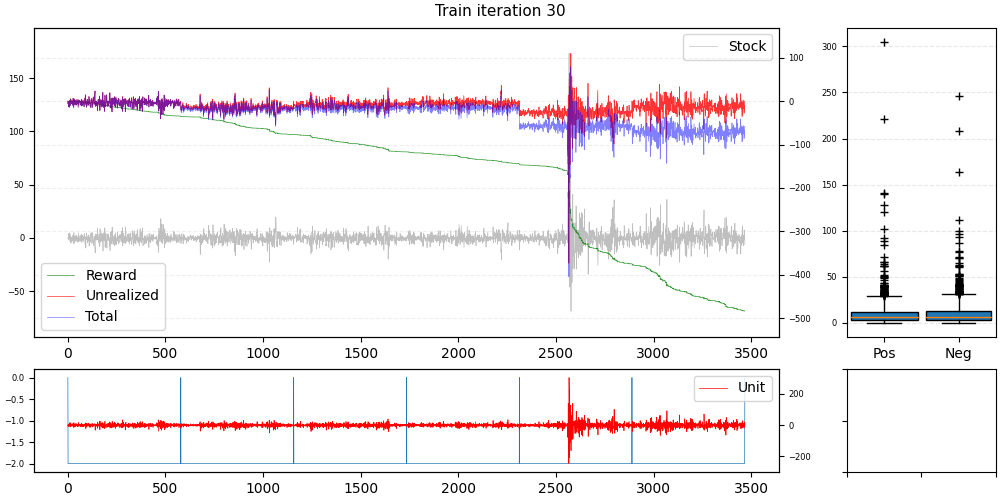
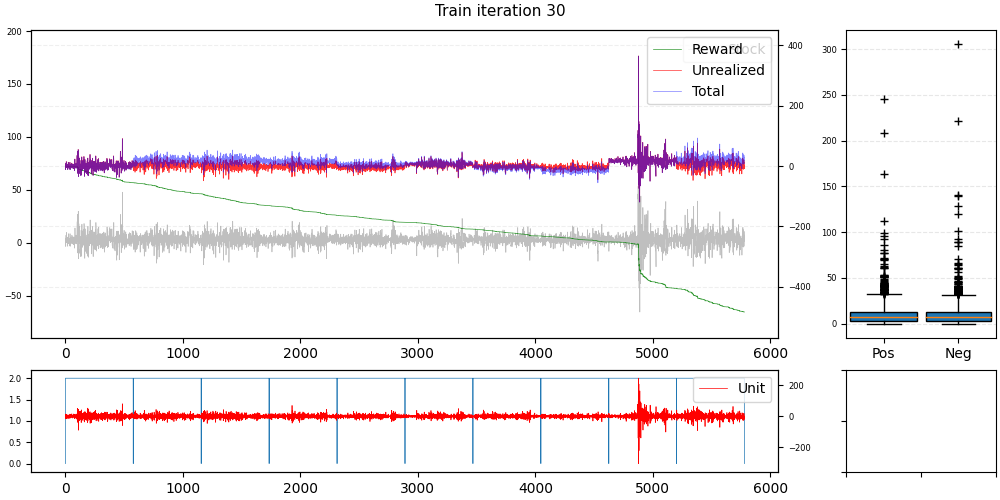
--dre

diff --git a/sim/env_dy/day_evn.py b/sim/env_dy/day_evn.py
@@ -230,13 +230,13 @@ class Days(gym.Env):
 
     def cal_reward(self, pre_stat, new_stat, step_profit, pre_price):
 
-        returns = self.cal_emph_reward(step_profit)
-        risk = self.remain_risk(new_stat)
-        reward = returns #- 0.5 * risk #2틱 risk = 3$ 1틱 1.25
+        # returns = self.cal_emph_reward(step_profit)
+        # risk = self.remain_risk(new_stat)
+        # reward = returns #- 0.5 * risk #2틱 risk = 3$ 1틱 1.25
         # optimal = self.cal_opt_reward(step_profit, pre_stat, pre_price, new_stat)
 
         # reward += (max(optimal, -5))
-
+        reward = step_profit
         self.reward_log = np.append(self.reward_log, reward)
         return reward
 

diff --git a/runner/runner_dict.py b/runner/runner_dict.py
@@ -23,12 +23,12 @@ ENV = Days
 SPEC = DataSpec (data[0])
 class IterRun:
     MIN_TRADE = 30
-    BOOST_SEARCH = 3
+    BOOST_SEARCH = 5
     unit_episode = len(data)
     train_epi = unit_episode * 1
     grad_steps =[(1e5, 2), (5e5, 3), (8e5, 4)]
     noise_std = 0.6
-    adapt_delay = 10
+    adapt_delay = 15
 
     def __init__(self, MODEL, TRANSFER = None, arc=[128, 64], retrain=False, batch_size=128, seed=None):
         self.TRANSFER = None if TRANSFER is None else self.transfer(TRANSFER)

diff --git a/RUN_Multi.py b/RUN_Multi.py
@@ -32,7 +32,7 @@ class FlushPipe(object):
 if __name__ == "__main__":
     # models = ["DDPG", "SAC", "TD3"]
     # models = ["DDPG", "TD3"]
-    models = ["TD3X", "TD3"]
+    models = ["DDPGX", "SACX", "SAC"]
 
     procs = []
 

diff --git a/SOL/sol_train.py b/SOL/sol_train.py
@@ -17,7 +17,7 @@ if device == 'cuda':
     th.cuda.manual_seed_all(777)
 
 
-learning_rate = 0.001
+learning_rate = 0.000001
 batch_size = 128
 num_classes = 10
 epochs = 2000
